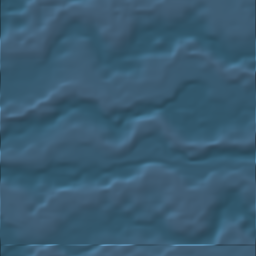
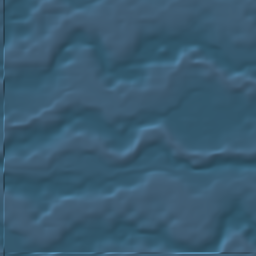
Fix water not looping

diff --git a/scripts/render_water_tiles.py b/scripts/render_water_tiles.py
@@ -114,9 +114,11 @@ def fbm(u: float, v: float, time_phase: float, seed: int) -> float:
 
 
 def sample_height(u: float, v: float, time_phase: float, seed: int) -> float:
+    time_phase %= 1.0
     angle = time_phase * math.tau
-    flow_u = fract(u + 0.018 * math.cos(angle * 0.6))
-    flow_v = fract(v + time_phase * 0.12)
+    # Return the flow and every wave phase to their starting values each loop.
+    flow_u = fract(u + 0.018 * math.cos(angle))
+    flow_v = fract(v + (0.12 / math.tau) * math.sin(angle))
 
     bend = (tileable_value_noise(fract(flow_u * 1.1), fract(flow_v * 0.9), 6, seed + 101) - 0.5) * 0.20
     shear = (tileable_value_noise(fract(flow_u * 0.8), fract(flow_v * 1.3), 4, seed + 202) - 0.5) * 0.10
@@ -124,7 +126,7 @@ def sample_height(u: float, v: float, time_phase: float, seed: int) -> float:
 
     phase = flow_v + bend + shear + micro
     ridge_a = math.sin(phase * math.tau * 4.0 - angle * 1.0 + flow_u * math.tau * 0.35)
-    ridge_b = math.sin(phase * math.tau * 6.9 - angle * 1.6 - flow_u * math.tau * 0.22)
+    ridge_b = math.sin(phase * math.tau * 6.9 - angle * 2.0 - flow_u * math.tau * 0.22)
     ridge_c = math.sin(phase * math.tau * 9.5 - angle * 2.0 + flow_u * math.tau * 0.14)
 
     envelope = tileable_value_noise(fract(flow_u * 0.9), fract(flow_v * 0.7), 5, seed + 404) - 0.5
